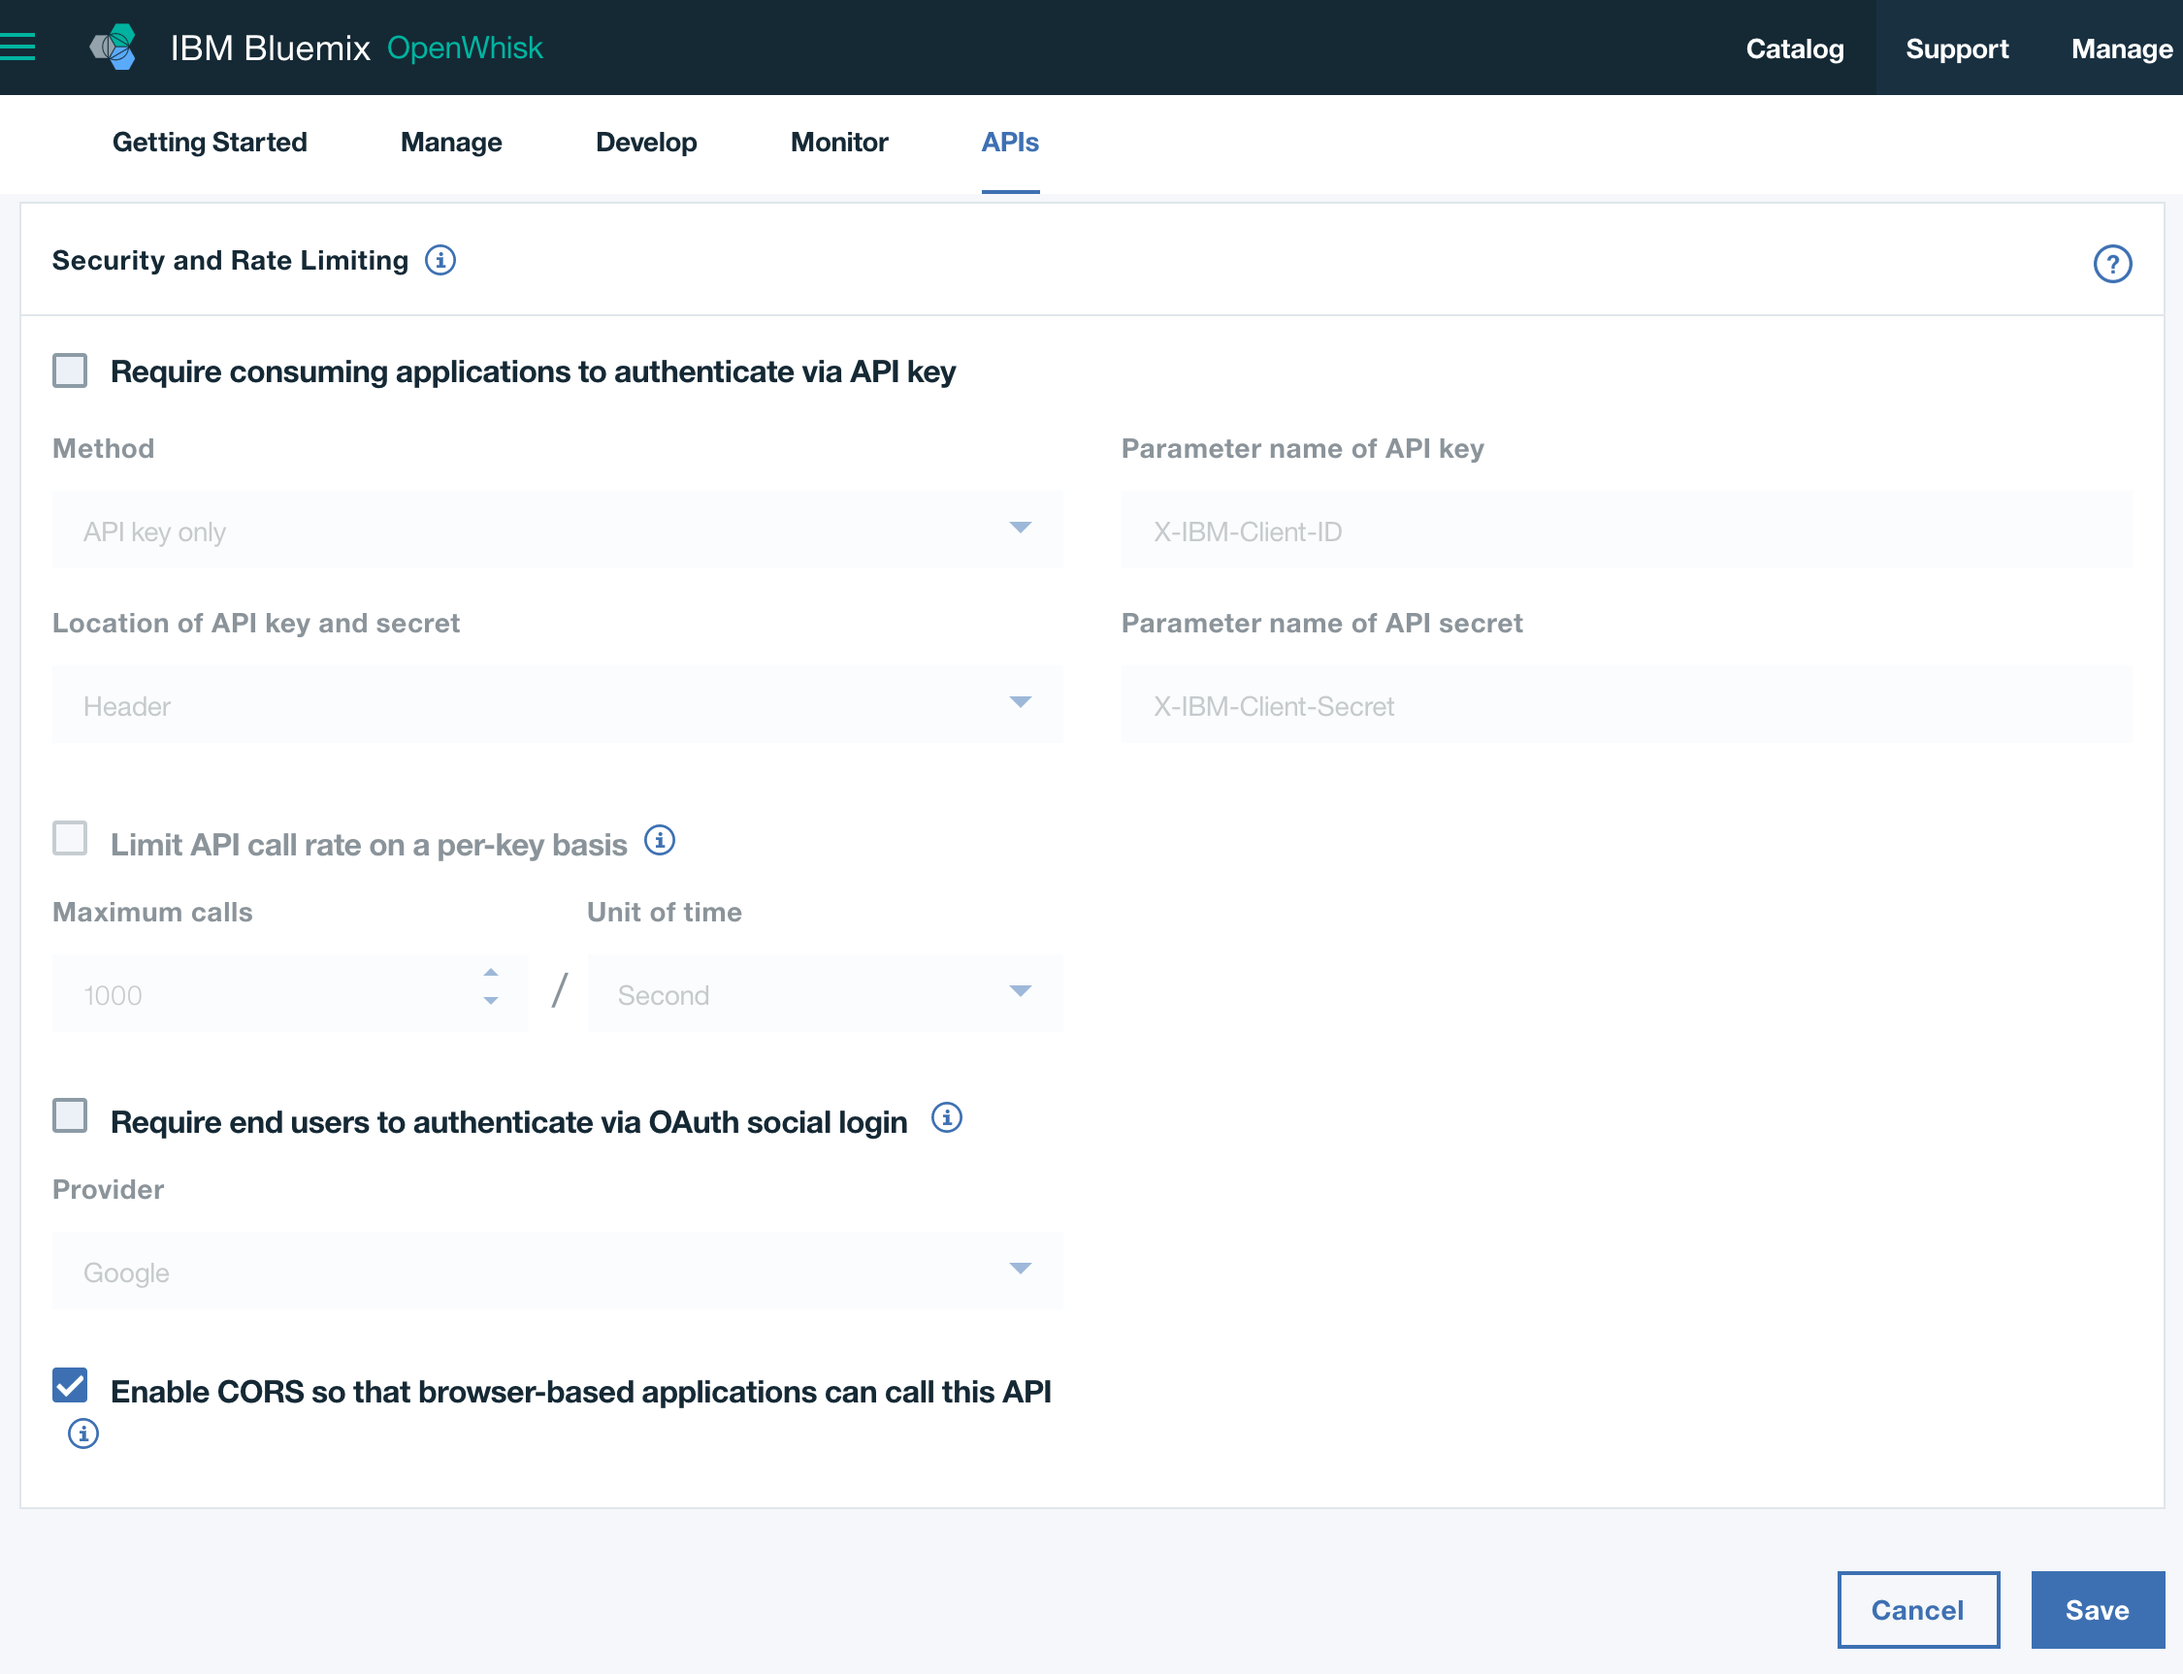
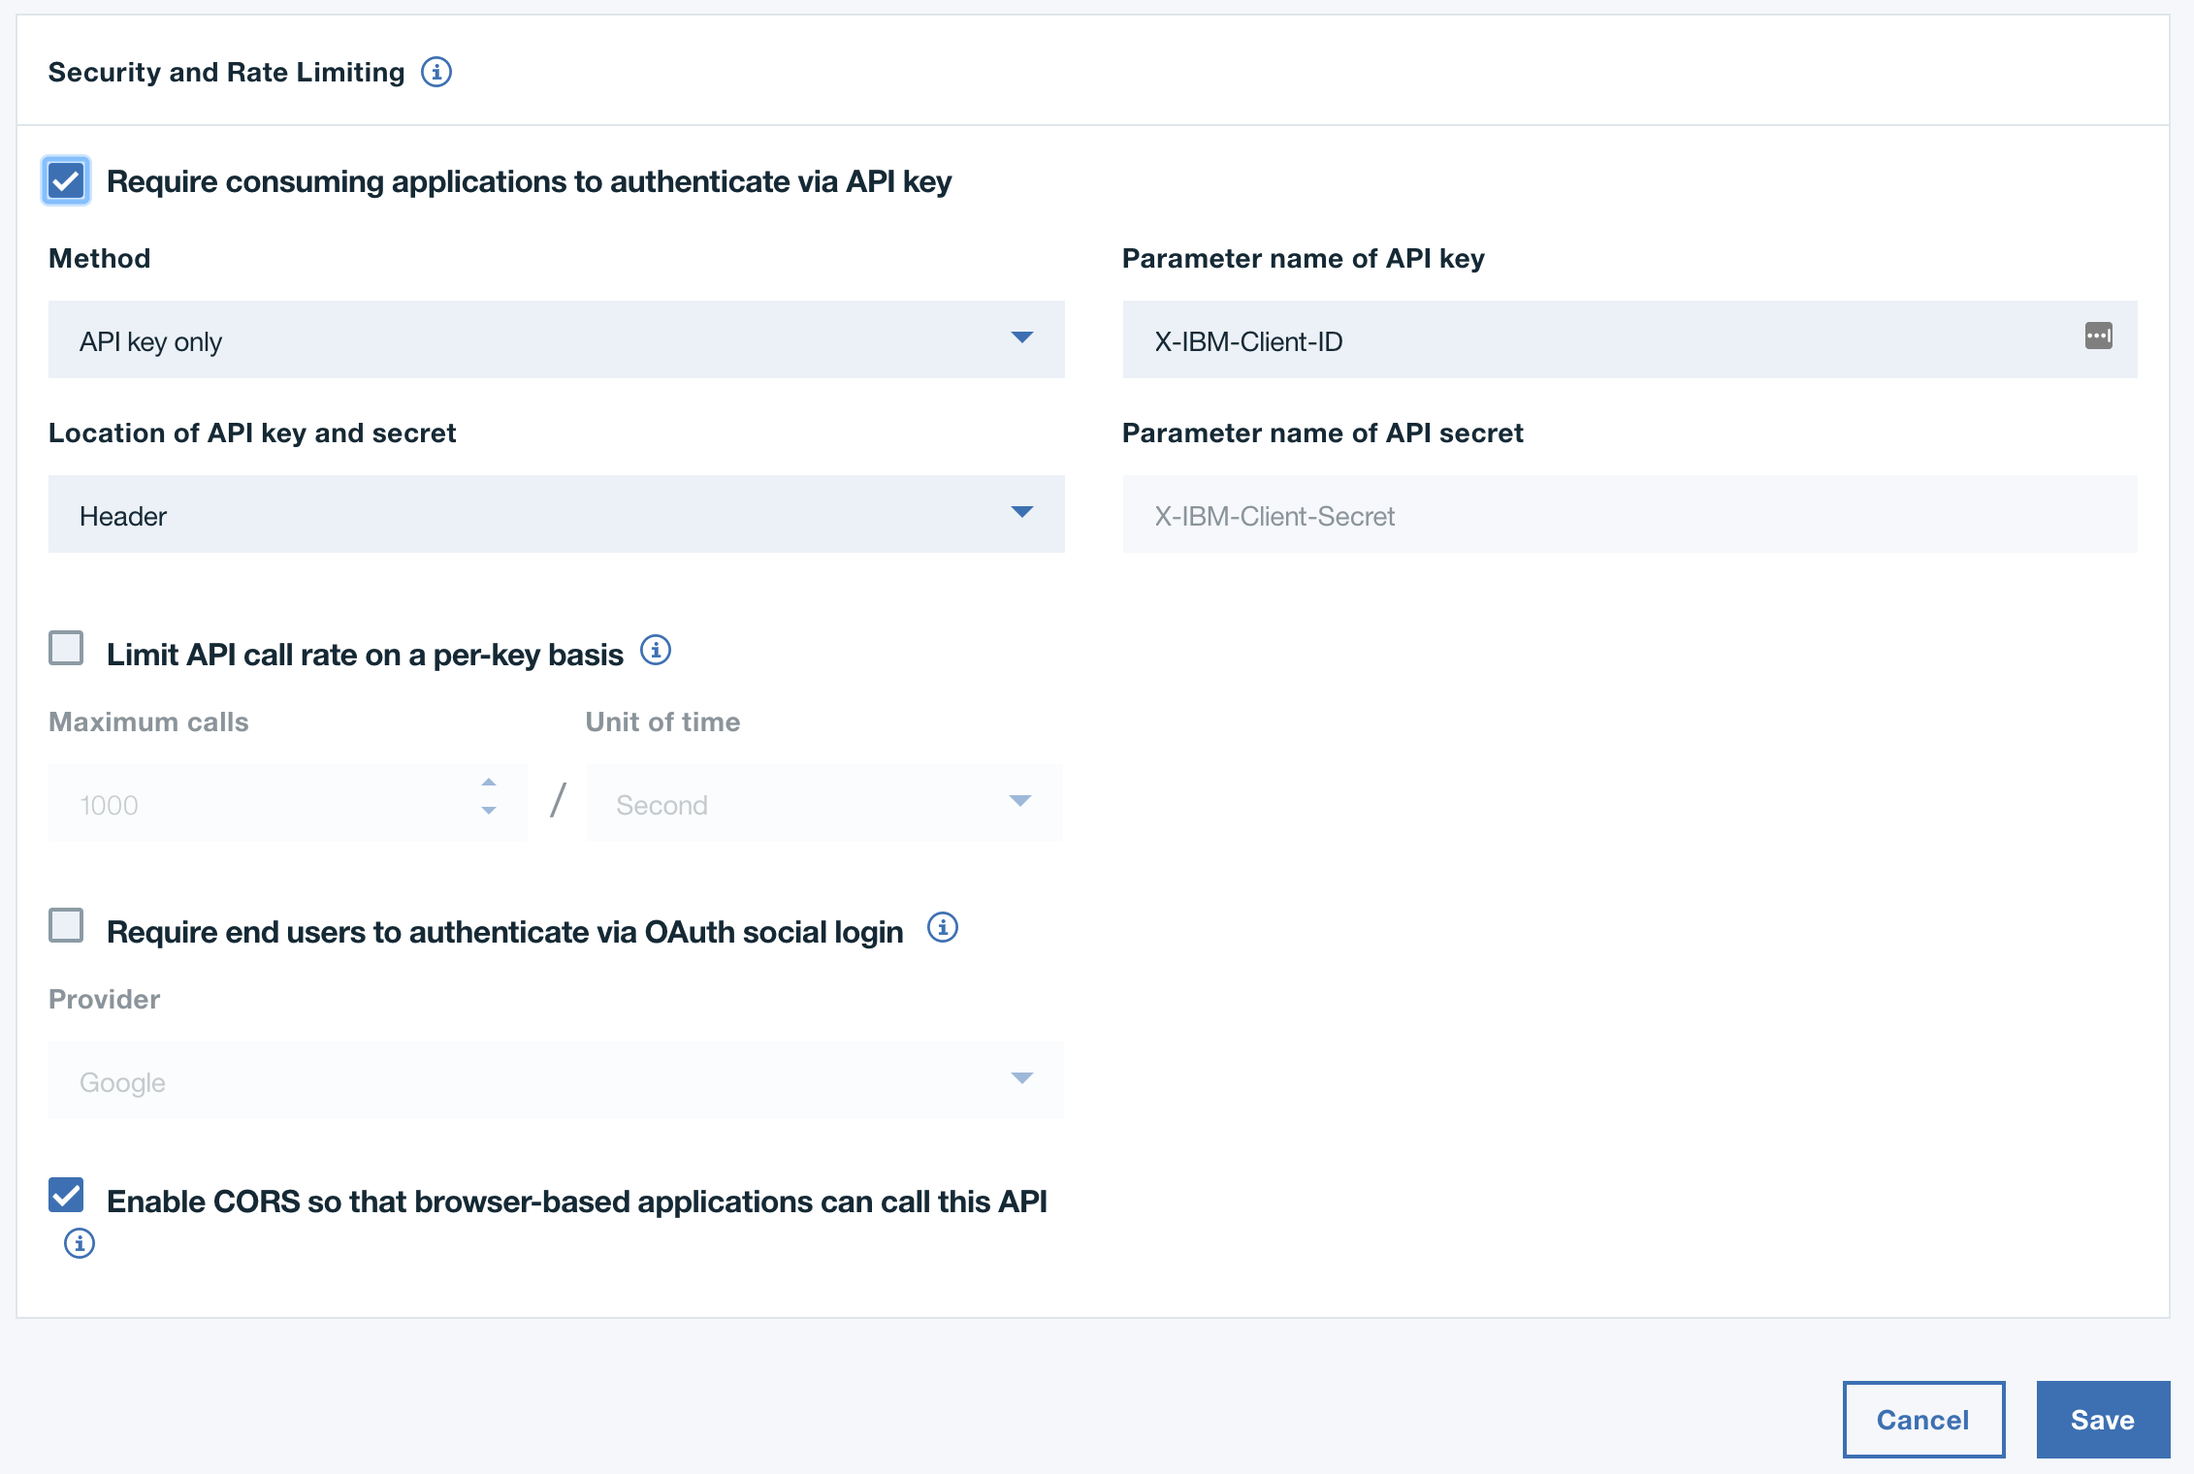
Expanding on Native API instructions

diff --git a/README-NativeAPI.md b/README-NativeAPI.md
@@ -25,7 +25,31 @@ You're resulting page should look like the image below:
 
 ![API create](readme-assets/create-api.png)
 
-Scroll down, make sure Enable CORS option is checked and then click Save button:
+Scroll down
+
+- Enable the "Require ... via API key" option; default options are suitable
+- Make sure "Enable CORS..." option is checked
+- Click Save button
 
 ![API save](readme-assets/save-api.png)
 
+### Create API Key
+
+To create an API key, which is required to access the endpoints, click the "Sharing" link on the left of your screen shown below:
+
+![Sharing](readme-assets/sharing.png)
+
+From this screen, click the "Create API Key" button.
+
+In the Create API Key screen, do the following:
+
+- Name your API key
+- Take note of your API key
+- Click the show checkbox and take note of your API key secret
+- Click "Create":
+
+![Create API Key](readme-assets/create-api-key.png)
+
+The last thing you'll need is the full path to your APIs, which you can find on the summary page (shown below as your 'Route'), along with all sorts of other useful information, including analytics:
+
+![Summary](readme-assets/summary.png)
